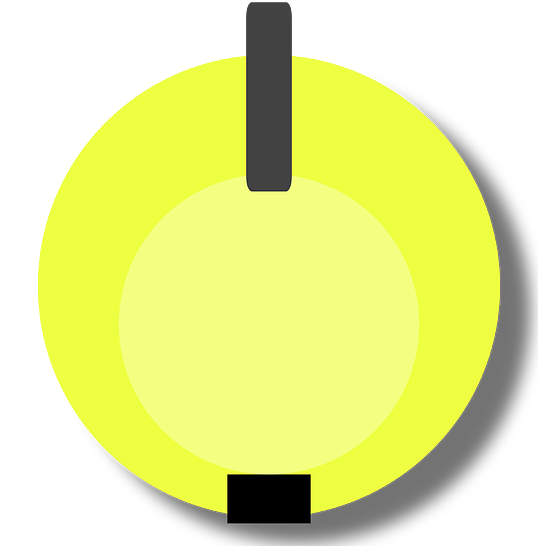
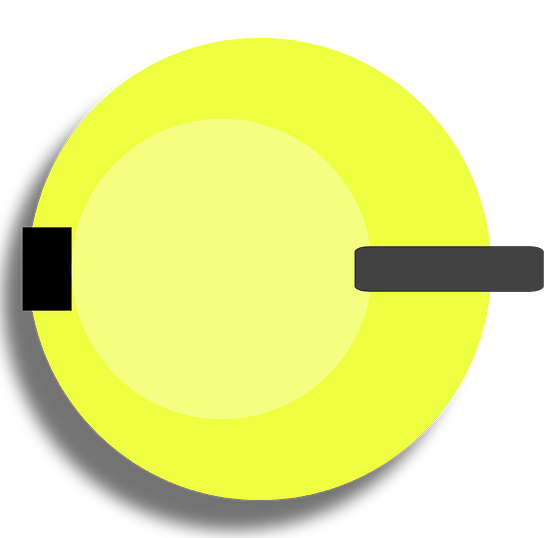
Add files via upload

diff --git a/main.py b/main.py
@@ -1,5 +1,6 @@
 from pygame import *
 from random import randint
+import math
 from time import time as timer
 
 
@@ -35,21 +36,21 @@ lvl3 = 50
 rel_time = False
 num_fire = 0
 life = 3
-
-
-
+score = 0
 
 
 class GameSprite(sprite.Sprite):
-    def __init__(self, player_image, player_x, player_y,  # один рядок
-                 size_x, size_y, player_speed):
-        sprite.Sprite.__init__(self)
-        self.image = transform.scale(  # один рядок
-            image.load(player_image), (size_x, size_y))
+    def __init__(self, player_image, player_x, player_y, size_x, size_y, player_speed):
+        super().__init__()
+        if isinstance(player_image, str):
+            self.image = transform.scale(image.load(player_image), (size_x, size_y))
+        else:
+            self.image = player_image  # Якщо передали Surface, а не ім'я файла
         self.speed = player_speed
         self.rect = self.image.get_rect()
         self.rect.x = player_x
         self.rect.y = player_y
+
 
     def reset(self):
         window.blit(self.image, (self.rect.x, self.rect.y))
@@ -57,18 +58,49 @@ class GameSprite(sprite.Sprite):
 
 class Player(GameSprite):
     def update(self):
-        pass
+        # Отримуємо позицію миші
+        mouse_x, mouse_y = mouse.get_pos()
+        # Розраховуємо кут між туреллю і мишкою
+        dx = mouse_x - self.rect.centerx
+        dy = mouse_y - self.rect.centery
+        angle = math.degrees(math.atan2(-dy, dx))  # обертаємо по осі Y
 
-    def fire(self):
-        bullet = Bullet(img_bullet, self.rect.centerx, self.rect.top, 15, 20, -15)
+        # Повертаємо зображення
+        self.image = transform.rotate(
+            transform.scale(image.load(img_tur1), (100, 100)),
+            angle
+        )
+        self.rect = self.image.get_rect(center=self.rect.center)  # Щоб центр не зміщувався
+
+    def fire(self, speed):
+        mouse_x, mouse_y = mouse.get_pos()
+        dx = mouse_x - self.rect.centerx - 5
+        dy = mouse_y - self.rect.centery - 5
+        angle = math.atan2(dy, dx)
+
+        bullet_dx = speed * math.cos(angle)
+        bullet_dy = speed * math.sin(angle)
+
+        # створюємо одразу готову повернуту картинку
+        bullet_img = transform.rotate(
+            transform.scale(image.load(img_bullet), (30, 10)),
+            -math.degrees(angle)  # обертання треба зробити в градусах
+        )
+
+        bullet = Bullet(bullet_img, self.rect.centerx - 5, self.rect.centery - 5, 30, 10, 0)
+        bullet.speed_x = bullet_dx
+        bullet.speed_y = bullet_dy
         bullets.add(bullet)
+        fire_sound.play()
 
 
 class Bullet(GameSprite):
     def update(self):
-        self.rect.y += self.speed
-        if self.rect.y < 0:
+        self.rect.x += self.speed_x
+        self.rect.y += self.speed_y
+        if self.rect.y < 0 or self.rect.y > win_height or self.rect.x < 0 or self.rect.x > win_width:
             self.kill()
+
 
 class Enemy(GameSprite):
     # рух ворога
@@ -81,7 +113,7 @@ class Enemy(GameSprite):
             self.rect.y = 0
             # lost = lost + 1
 
-tur = Player(img_tur, (win_width - 120)//2, win_height - 157, 120, 120, 0)
+tur = GameSprite(img_tur, (win_width - 120)//2, win_height - 157, 120, 120, 0)
 tur1 = Player(img_tur1, (win_width - 100)//2, win_height - 148, 100, 100, 0)
 zombis = sprite.Group()
 for i in range(5):
@@ -96,6 +128,16 @@ while game:
     for e in event.get():
         if e.type == QUIT:
             game = False
+        if e.type == MOUSEBUTTONDOWN and e.button == 1:
+
+            if num_fire < 8 and rel_time == False:  # ⬅
+                num_fire = num_fire + 1  # ⬅
+                fire_sound.play()  # ⬅ додали відступ
+                tur1.fire(15)  # ⬅ додали відступ
+
+            if num_fire >= 8 and rel_time == False:  # якщо гравець зробив 5 пострілів⬅
+                last_time = timer()  # засікаємо час, коли це сталося⬅
+                rel_time = True  # ставимо прапор перезарядки⬅
 
     if not finish:
         window.blit(background, (0, 0))
@@ -103,11 +145,34 @@ while game:
         tur.update()
         tur.reset()
 
+        bullets.update()
+        bullets.draw(window)
+
         tur1.update()
         tur1.reset()
 
         zombis.update()
         zombis.draw(window)
+
+        if rel_time == True:
+            now_time = timer()  # зчитуємо час
+
+            if now_time - last_time < 3:  # поки не минуло 3 секунди виводимо інформацію про перезарядку
+                reload = font2.render('Wait, reload...', 1, (150, 0, 0))
+                window.blit(reload, (260, 460))
+            else:
+                num_fire = 0  # обнулюємо лічильник куль
+                rel_time = False  # скидаємо прапор перезарядки
+
+
+        collides = sprite.groupcollide(zombis, bullets, True, True)
+        for c in collides:
+            # цей цикл повториться стільки разів, скільки монстрів збито
+            score = score + 1
+            zombi = Enemy(img_zombi, randint(80, win_width - 80),
+                            -40, 80, 50, randint(1, 5))
+            zombis.add(zombi)
+
 
     display.update()
     time.delay(60)
